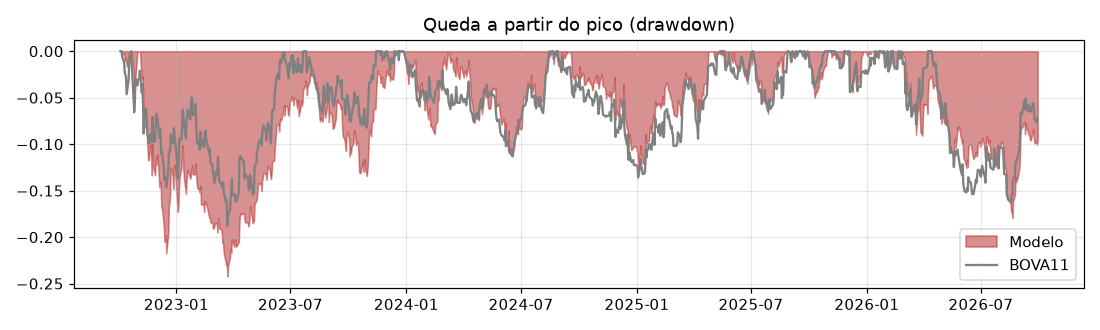
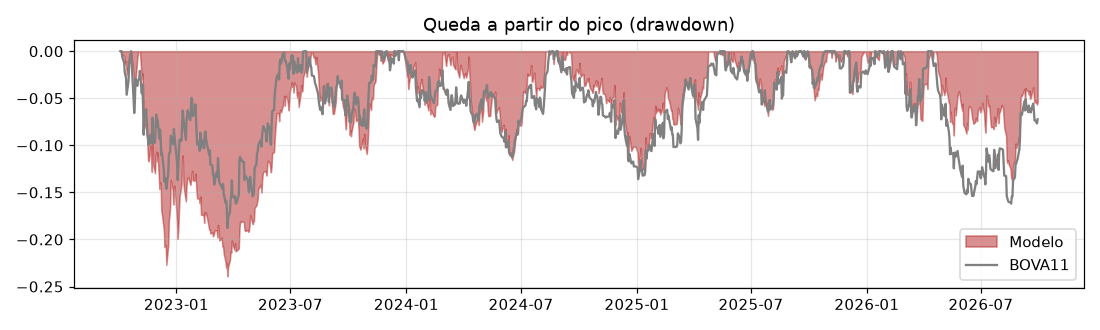
Etapa 5: backtest concluído com conclusão honesta; paper trading iniciado
Regra do usuário (top 30, quinzenal, universo todo): +12,4% a.a. vs
Ibovespa +12,8% e CDI +13,1% após custos (giro 9x/ano). O modelo ordena
bem (IC +0,109) mas o giro consome a vantagem. docs/validacao.md registra
a leitura; paper trading desde 29/09/2026. Etapa 6 em andamento.

diff --git a/CLAUDE.md b/CLAUDE.md
@@ -31,8 +31,8 @@ Sistema pessoal de apoio à análise da bolsa brasileira (B3). Coleta dados de v
 | 2 | Coleta de dados | [etapas/etapa2.md](etapas/etapa2.md) | ✅ concluída |
 | 3 | Extração de sinais | [etapas/etapa3.md](etapas/etapa3.md) | ✅ concluída |
 | 4 | Modelo de ranking | [etapas/etapa4.md](etapas/etapa4.md) | ✅ concluída |
-| 5 | Backtest e paper trading | [etapas/etapa5.md](etapas/etapa5.md) | 🔨 em andamento |
-| 6 | Relatório diário | [etapas/etapa6.md](etapas/etapa6.md) | ⏳ pendente |
+| 5 | Backtest e paper trading | [etapas/etapa5.md](etapas/etapa5.md) | 🔨 paper trading em andamento (backtest ✅) |
+| 6 | Relatório diário | [etapas/etapa6.md](etapas/etapa6.md) | 🔨 em andamento |
 | 7 | Interface (dashboard + chat IA + carteira) | [etapas/etapa7.md](etapas/etapa7.md) | ⏳ pendente |
 | 8 | Deploy (desktop .exe + web gratuito) | [etapas/etapa8.md](etapas/etapa8.md) | ⏳ pendente |
 
@@ -59,21 +59,21 @@ Legenda: 🟢 decisão padrão do Claude (pode ser mudada pelo usuário) · 🙋
   - Depois, o texto completo, por liquidez. Avança alguns dias pela cota grátis do Gemini e melhora a cobertura de `evt_*` a cada rodada.
 - Sentimento: acumula a partir de 29/09/2026 com a coleta diária. Ainda não tem histórico para o backtest.
 - CVM: 24 tickers pequenos ou extintos seguem sem CNPJ (ver alerta do `coletar.py`). Para resolver, acrescente-os em `config/cnpj_manual.csv`, com a fonte.
-- Tamanho do banco: medir o que ocupa espaço antes da etapa 8. Depois da ampliação ficou em ~640 MB, acima do limite gratuito comum de 512 MB.
+- Tamanho do banco: **~2 GB** depois dos sinais do universo ampliado (limite gratuito comum na nuvem: 512 MB). Antes da etapa 8:
+  - guardar sinais só dos papéis no universo (−45%);
+  - remover o índice redundante de `sinais`;
+  - `VACUUM`.
 
 **Etapa 4: concluída.** Desenho e leitura dos resultados em `docs/ranking.md`, números em `docs/ranking_avaliacao.md`.
 - O modelo tem IC +0,105 (positivo nos 5 anos), abaixo do baseline de valor em IC (+0,119). O ganho dele está nos extremos: spread topo−fundo de +2,4% em 21 dias nas ações líquidas, contra −1,2% do valor sozinho.
 - O resultado depende do regime de juros altos (valor, qualidade e baixo risco).
 - Reavaliar com eventos (`avaliar_ranking.py`) quando a classificação de títulos terminar.
 
-**Etapa 5 — backtest e paper trading**
-- ✅ Regra da carteira, decidida pelo usuário em 30/09/2026 antes dos resultados:
-  - **top 30 do ranking, pesos iguais, rebalanceamento quinzenal (a cada 10 pregões), universo todo (≥ R$ 100 mil/dia), só comprada**;
-  - vende o que sai do top 30 no rebalanceamento, que é a mesma lógica de "comprar o top 30 e vender o que caiu" do app (regra 16).
-- 🟢 Sensibilidade (sem trocar a regra principal): N = 20 e 40; rebalanceamento semanal e mensal; custos em dobro; só líquidas (≥ R$ 1 mi/dia); com e sem eventos; regra com folga, que só vende quando a ação sai do top 60.
-- 🟢 Custos: emolumentos da B3 (~0,03%) + spread/slippage por faixa de liquidez, parametrizados em config.
-- Backtest com e sem o sinal de eventos (risco de look-ahead do LLM) e separado por faixa de liquidez (as pouco negociadas enganam).
-- O paper trading precisa de semanas de calendário antes de qualquer conclusão.
+**Etapa 5 — backtest ✅; paper trading em andamento.** Leitura em `docs/validacao.md`, números em `docs/backtest.md`.
+- Regra do usuário: top 30, pesos iguais, rebalanceamento quinzenal, universo todo.
+- Resultado: +12,4% ao ano, contra Ibovespa +12,8% e CDI +13,1%. Empate depois dos custos (giro de 9x ao ano, ~2,3% ao ano em custos).
+- Paper trading desde 29/09/2026 (`scripts/paper_trading.py`). Rodar todo pregão, o que a etapa 6 automatiza. Concluir só depois de semanas.
+- Candidata para depois de observar: regra com folga (top 60), com metade do giro. Não trocar agora.
 
 **Etapa 6 — relatório diário e agendamento contínuo (regra 15)**
 - 🙋 Fonte de cotação intradiária: grátis com ~15 min de atraso ou paga. Trazer opções, custos e termos.
@@ -182,6 +182,8 @@ Legenda: 🟢 decisão padrão do Claude (pode ser mudada pelo usuário) · 🙋
 - Extrair eventos (títulos + texto completo, retomável): `python scripts/extrair_eventos.py`
 - Ranking de uma data (só dados até ela): `python scripts/gerar_ranking.py [--data AAAA-MM-DD]`
 - Avaliar modelo vs baselines (walk-forward): `python scripts/avaliar_ranking.py`
+- Backtest da regra da carteira: `python scripts/backtest.py`
+- Paper trading (todo pregão, depois de coletar e gerar sinais): `python scripts/paper_trading.py`
 - Testes: `pytest`
 - Dev local (backend): `uvicorn src.api.main:app --reload`
 - Dev local (frontend): `cd frontend && npm run dev`

diff --git a/docs/ranking_avaliacao.md b/docs/ranking_avaliacao.md
@@ -11,62 +11,62 @@
 
 | Método | IC médio | desvio | dias IC>0 | t (sem sobreposição) | spread top−bottom decil (21d) |
 |---|---|---|---|---|---|
-| modelo principal (sem eventos) | +0.1048 | 0.115 | 84% | +5.22 | +1.40% |
-| modelo com eventos | +0.0982 | 0.117 | 80% | +4.94 | +1.14% |
-| modelo, horizonte 5 pregões | +0.0724 | 0.126 | 72% | +8.33 | +0.62% |
-| aleatório | -0.0010 | 0.060 | 50% | +0.25 | +0.62% |
-| momentum (ret_63d) | +0.0384 | 0.128 | 66% | +1.67 | +1.48% |
-| valor (fund_lp) | +0.1187 | 0.115 | 84% | +6.03 | -3.25% |
+| modelo principal (sem eventos) | +0.1087 | 0.119 | 84% | +5.54 | +3.60% |
+| modelo com eventos | +0.1019 | 0.118 | 81% | +5.23 | +3.23% |
+| modelo, horizonte 5 pregões | +0.0725 | 0.128 | 72% | +8.20 | +1.10% |
+| aleatório | -0.0010 | 0.060 | 50% | +0.27 | -0.21% |
+| momentum (ret_63d) | +0.0408 | 0.127 | 67% | +1.81 | +1.34% |
+| valor (fund_lp) | +0.1214 | 0.115 | 84% | +6.27 | +3.74% |
 | eventos (evt_saldo) | +0.0222 | 0.103 | 5% | +0.16 | +0.63% |
 
 ### IC médio por ano
 
 | Método | 2022 | 2023 | 2024 | 2025 | 2026 |
 |---|---|---|---|---|---|
-| modelo principal (sem eventos) | +0.071 | +0.081 | +0.103 | +0.131 | +0.115 |
-| modelo com eventos | +0.007 | +0.076 | +0.101 | +0.133 | +0.108 |
-| modelo, horizonte 5 pregões | +0.041 | +0.051 | +0.079 | +0.087 | +0.083 |
+| modelo principal (sem eventos) | +0.068 | +0.086 | +0.111 | +0.135 | +0.115 |
+| modelo com eventos | +0.007 | +0.083 | +0.105 | +0.136 | +0.109 |
+| modelo, horizonte 5 pregões | +0.047 | +0.052 | +0.078 | +0.087 | +0.082 |
 | aleatório | -0.008 | +0.002 | +0.002 | -0.004 | -0.003 |
-| momentum (ret_63d) | +0.021 | +0.001 | +0.061 | +0.066 | +0.025 |
-| valor (fund_lp) | +0.174 | +0.090 | +0.125 | +0.144 | +0.093 |
+| momentum (ret_63d) | +0.022 | +0.011 | +0.060 | +0.066 | +0.025 |
+| valor (fund_lp) | +0.180 | +0.096 | +0.128 | +0.144 | +0.093 |
 | eventos (evt_saldo) | +0.045 | -0.048 | +nan | +nan | +nan |
 
 ### Por faixa de liquidez
 
 | Método | IC médio | desvio | dias IC>0 | t (sem sobreposição) | spread top−bottom decil (21d) |
 |---|---|---|---|---|---|
-| ≥ R$ 5 mi/dia · modelo principal (sem eventos) | +0.0816 | 0.139 | 73% | +3.43 | +2.42% |
-| ≥ R$ 5 mi/dia · valor (fund_lp) | +0.0972 | 0.135 | 79% | +4.19 | -1.17% |
-| ≥ R$ 5 mi/dia · momentum (ret_63d) | +0.0163 | 0.142 | 58% | +0.56 | +0.32% |
-| R$ 1–5 mi/dia · modelo principal (sem eventos) | +0.1038 | 0.166 | 74% | +3.42 | +2.34% |
-| R$ 1–5 mi/dia · valor (fund_lp) | +0.1263 | 0.166 | 76% | +4.81 | +1.42% |
-| R$ 1–5 mi/dia · momentum (ret_63d) | +0.0526 | 0.185 | 63% | +1.35 | +2.29% |
-| R$ 0,1–1 mi/dia · modelo principal (sem eventos) | +0.1608 | 0.156 | 85% | +7.09 | -0.26% |
-| R$ 0,1–1 mi/dia · valor (fund_lp) | +0.1618 | 0.175 | 81% | +5.82 | -12.11% |
-| R$ 0,1–1 mi/dia · momentum (ret_63d) | +0.0785 | 0.189 | 68% | +2.71 | +6.13% |
+| ≥ R$ 5 mi/dia · modelo principal (sem eventos) | +0.0821 | 0.141 | 73% | +3.61 | +2.59% |
+| ≥ R$ 5 mi/dia · valor (fund_lp) | +0.0975 | 0.135 | 79% | +4.19 | +3.56% |
+| ≥ R$ 5 mi/dia · momentum (ret_63d) | +0.0176 | 0.141 | 58% | +0.64 | +0.32% |
+| R$ 1–5 mi/dia · modelo principal (sem eventos) | +0.1122 | 0.168 | 75% | +3.94 | +3.99% |
+| R$ 1–5 mi/dia · valor (fund_lp) | +0.1292 | 0.168 | 76% | +4.92 | +3.66% |
+| R$ 1–5 mi/dia · momentum (ret_63d) | +0.0566 | 0.184 | 65% | +1.50 | +2.58% |
+| R$ 0,1–1 mi/dia · modelo principal (sem eventos) | +0.1695 | 0.156 | 86% | +7.47 | +4.41% |
+| R$ 0,1–1 mi/dia · valor (fund_lp) | +0.1707 | 0.174 | 83% | +6.25 | +2.82% |
+| R$ 0,1–1 mi/dia · momentum (ret_63d) | +0.0838 | 0.188 | 71% | +2.93 | +2.63% |
 
 ### Sinais que mais pesam no modelo principal (último pregão)
 
 | Sinal | Contribuição média absoluta |
 |---|---|
-| fund_lp | 0.0132 |
-| vol_63d | 0.0130 |
-| fund_pvp | 0.0105 |
-| fund_margem_ebitda | 0.0069 |
-| vol_21d | 0.0061 |
-| fund_cresc_receita | 0.0061 |
+| fund_lp | 0.0141 |
+| vol_63d | 0.0127 |
+| fund_pvp | 0.0101 |
+| vol_21d | 0.0064 |
+| fund_margem_ebitda | 0.0061 |
+| fund_cresc_receita | 0.0060 |
+| dist_mm200 | 0.0052 |
 | fund_cresc_lucro | 0.0051 |
-| dist_mm200 | 0.0050 |
-| fund_pl | 0.0050 |
-| fund_roe | 0.0036 |
-| fund_margem_liq | 0.0031 |
+| fund_pl | 0.0042 |
+| fund_roe | 0.0038 |
+| fund_margem_liq | 0.0030 |
 | fund_divliq_ebitda | 0.0029 |
-| ret_63d | 0.0028 |
+| ret_63d | 0.0026 |
 | ret_21d | 0.0023 |
-| dist_mm50 | 0.0019 |
-| ret_1d | 0.0016 |
+| dist_mm50 | 0.0018 |
+| ret_1d | 0.0017 |
 | dist_mm21 | 0.0011 |
-| rsi14 | 0.0004 |
-| ret_5d | 0.0003 |
-| vol_fin_rel21 | 0.0002 |
+| rsi14 | 0.0005 |
+| ret_5d | 0.0001 |
+| vol_fin_rel21 | 0.0001 |
 

diff --git a/docs/validacao.md b/docs/validacao.md
@@ -1,0 +1,54 @@
+# Validação da estratégia (etapa 5)
+
+Os números estão em [backtest.md](backtest.md), gerado por `python scripts/backtest.py`. Este documento registra a leitura e as decisões.
+
+## Regra testada
+Fixada pelo usuário **antes** de ver qualquer resultado:
+- top 30 do ranking, com pesos iguais;
+- rebalanceamento a cada 10 pregões;
+- universo todo (≥ R$ 100 mil/dia);
+- só comprada.
+
+Condições do teste:
+- **Execução:** no fechamento do pregão seguinte ao ranking.
+- **Retornos:** incluem dividendos, JCP e desdobramentos.
+- **Custos:** emolumentos de 0,03% mais meio spread por faixa de liquidez.
+- **Imposto:** não entra.
+
+## Conclusão honesta (10/2022 a 09/2026)
+**A estratégia empatou com o Ibovespa e com o CDI depois dos custos.** Ela ainda não demonstrou vantagem.
+
+| | ao ano | Sharpe (sobre o CDI) | queda máxima | giro anual |
+|---|---|---|---|---|
+| Regra do usuário | +12,4% | 0,05 | −23,9% | 9,4x |
+| Ibovespa (BOVA11) | +12,8% | 0,07 | −18,8% | — |
+| CDI | +13,1% | — | 0% | — |
+
+- **O modelo ordena bem, mas a carteira não converte isso em ganho líquido.** O IC é de +0,109, e o spread entre o decil do topo e o do fundo é de +3,6% em 21 dias. O giro de ~9x por ano custa ~2,3% ao ano. Antes dos custos, a regra ficaria ~2 pontos acima do Ibovespa.
+- **As sensibilidades ficam em torno do índice**, entre +9% e +14,5% ao ano. O melhor caso (top 20, +14,5%) não deve ser adotado só por ter sido o melhor, porque escolher depois de ver é a forma clássica de se enganar.
+- **Só as ações líquidas (≥ R$ 1 mi/dia) renderam menos:** +9,0% ao ano. Parte do resultado vem das pouco negociadas, que são mais difíceis de operar de verdade.
+- **O momentum vira negativo** (−3,3% ao ano) quando os erros de dados são corrigidos.
+- **Os eventos por LLM não ajudaram** (+10,9% contra +12,4%). A cobertura ainda estava incompleta.
+
+## Correção de dados que mudou o resultado
+Grupamentos de ações que o Yahoo não registrou apareciam como altas de +900% a +4.400% num dia (NEXP3, BRPR3, OIBR3, KRSA3, TRAD3 e outros) e inflavam o momentum e o backtest.
+
+Correção, causal e conservadora:
+- saltos com razão de preço quase inteira (×10, ÷3...) sem provento registrado são tratados como eventos contábeis;
+- altas de mais de 3x num dia também;
+- quedas reais, como AMER3 −77% e GOLL4 −69%, continuam contando.
+
+Detalhes em `src/sinais/precos.py`.
+
+## O que isso significa para o uso no app (regra 16)
+- As indicações do top 30 devem ser vistas como **ponto de partida para análise**, não como fonte de retorno acima do mercado. É o que o histórico mostra até agora.
+- A **regra com folga** (só vender quando a ação sai do top 60) teve metade do giro (4,7x) e +13,0% ao ano. Ela casa com a ideia do app de "vender o que caiu" sem trocar a carteira toda. Fica como candidata a regra do paper trading **depois** de algumas semanas de observação, e não como troca agora.
+- Caminhos para melhorar, a testar com cuidado e registrando cada variação:
+  - reduzir o giro;
+  - completar os eventos;
+  - acumular histórico de sentimento;
+  - reavaliar fora do regime de juros altos.
+
+## Paper trading
+- Começou em 29/09/2026, com a mesma regra e o mesmo motor do backtest, e roda com `python scripts/paper_trading.py`. Na etapa 6 passa a ser automático.
+- Nenhuma conclusão antes de **algumas semanas**. Depois, comparar com o que o backtest indicava para um período de mesmo tamanho.

diff --git a/docs/backtest.md b/docs/backtest.md
@@ -9,10 +9,10 @@
 
 | Estratégia | Retorno total | ao ano | Volatilidade | Sharpe (sobre CDI) | Queda máxima | Giro anual |
 |---|---|---|---|---|---|---|
-| **Regra principal (top 30, quinzenal, universo todo)** | +43.0% | +9.5% | 16.9% | -0.11 | -24.2% | 9.2x |
-| valor (fund_lp), mesma regra | +57.6% | +12.2% | 17.8% | 0.04 | -25.5% | 3.4x |
-| momentum (ret_63d), mesma regra | +58.4% | +12.4% | 49.0% | 0.16 | -30.5% | 9.7x |
-| aleatório, mesma regra | -16.3% | -4.4% | 23.0% | -0.62 | -34.4% | 22.5x |
+| **Regra principal (top 30, quinzenal, universo todo)** | +58.6% | +12.4% | 17.1% | 0.05 | -23.9% | 9.4x |
+| valor (fund_lp), mesma regra | +58.0% | +12.3% | 17.2% | 0.04 | -25.3% | 3.4x |
+| momentum (ret_63d), mesma regra | -12.5% | -3.3% | 20.6% | -0.66 | -28.6% | 9.8x |
+| aleatório, mesma regra | -30.6% | -8.8% | 20.4% | -0.96 | -38.3% | 22.5x |
 | Ibovespa (BOVA11, comprar e segurar) | +61.1% | +12.8% | 17.1% | 0.07 | -18.8% | nanx |
 | CDI | +62.8% | +13.1% | 0.1% | 0.00 | 0.0% | nanx |
 
@@ -24,7 +24,7 @@
 
 | | 2022 | 2023 | 2024 | 2025 | 2026 |
 |---|---|---|---|---|---|
-| Modelo | -8.8% | +19.7% | -6.3% | +36.3% | +2.5% |
+| Modelo | -11.7% | +28.5% | -4.1% | +38.4% | +5.4% |
 | BOVA11 | -5.7% | +23.1% | -10.1% | +34.7% | +14.6% |
 | CDI | +3.1% | +13.0% | +10.8% | +14.2% | +10.5% |
 
@@ -32,13 +32,13 @@
 
 | Estratégia | Retorno total | ao ano | Volatilidade | Sharpe (sobre CDI) | Queda máxima | Giro anual |
 |---|---|---|---|---|---|---|
-| N = 20 | +42.7% | +9.4% | 17.0% | -0.11 | -25.8% | 10.1x |
-| N = 40 | +48.6% | +10.6% | 16.9% | -0.05 | -22.0% | 8.7x |
-| rebalanceamento semanal (5 pregões) | +30.1% | +6.9% | 16.9% | -0.25 | -24.7% | 14.5x |
-| rebalanceamento mensal (21 pregões) | +80.4% | +16.1% | 16.6% | 0.24 | -20.3% | 6.1x |
-| custos em dobro | +23.3% | +5.5% | 16.9% | -0.33 | -25.4% | 9.2x |
-| só ações ≥ R$ 1 mi/dia | +43.2% | +9.5% | 19.2% | -0.07 | -22.9% | 8.8x |
-| com folga (vende só se sair do top 60) | +53.6% | +11.5% | 16.7% | -0.00 | -25.3% | 4.8x |
-| modelo com eventos | +34.6% | +7.8% | 17.9% | -0.18 | -29.8% | 10.0x |
+| N = 20 | +70.8% | +14.5% | 17.5% | 0.16 | -22.4% | 10.3x |
+| N = 40 | +46.5% | +10.2% | 17.1% | -0.07 | -22.4% | 8.5x |
+| rebalanceamento semanal (5 pregões) | +46.5% | +10.1% | 17.1% | -0.07 | -23.0% | 14.3x |
+| rebalanceamento mensal (21 pregões) | +66.1% | +13.7% | 16.6% | 0.11 | -23.0% | 6.1x |
+| custos em dobro | +36.5% | +8.2% | 17.2% | -0.17 | -25.1% | 9.4x |
+| só ações ≥ R$ 1 mi/dia | +40.3% | +9.0% | 19.3% | -0.10 | -24.2% | 8.9x |
+| com folga (vende só se sair do top 60) | +62.2% | +13.0% | 17.4% | 0.08 | -23.5% | 4.7x |
+| modelo com eventos | +50.6% | +10.9% | 17.7% | -0.02 | -27.1% | 9.9x |
 
 Material de estudo, não recomendação de investimento.
